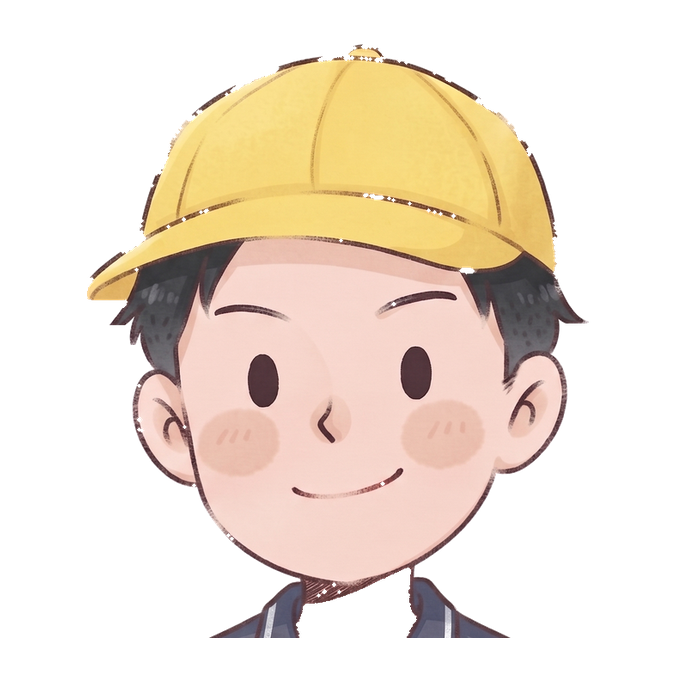
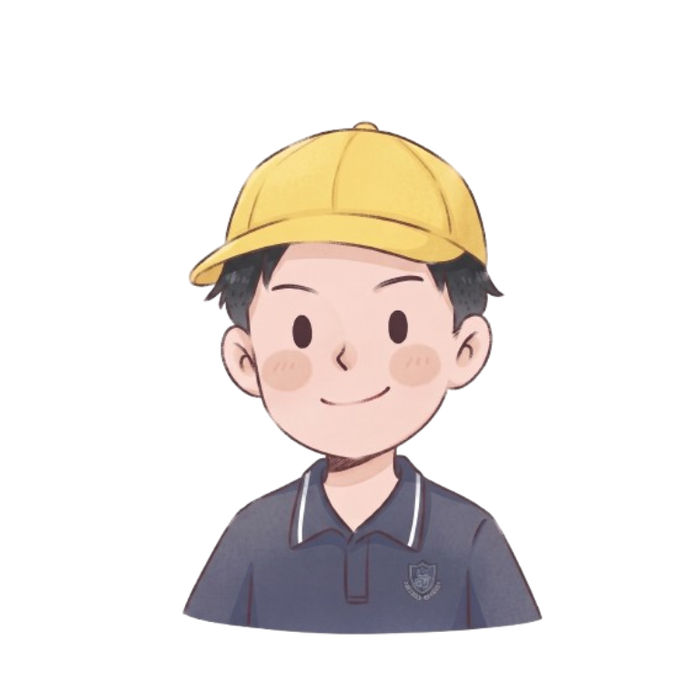
Replace the character head pictures.
The new circle-safe heads are stored as supplied, and the head links use a new cache name.

diff --git a/game/clue-hunt/index.html b/game/clue-hunt/index.html
@@ -173,10 +173,10 @@
 <script>
 (function () {
   var portraits = {
-    evan: { bust: "after-school-club/art/players/evan.png?v=3", head: "after-school-club/art/players/heads/evan.png?v=6" },
-    lily: { bust: "after-school-club/art/players/lily.png?v=3", head: "after-school-club/art/players/heads/lily.png?v=6" },
-    ben: { bust: "after-school-club/art/players/ben.png?v=3", head: "after-school-club/art/players/heads/ben.png?v=6" },
-    hannah: { bust: "after-school-club/art/players/hannah.png?v=3", head: "after-school-club/art/players/heads/hannah.png?v=6" }
+    evan: { bust: "after-school-club/art/players/evan.png?v=3", head: "after-school-club/art/players/heads/evan.png?v=7" },
+    lily: { bust: "after-school-club/art/players/lily.png?v=3", head: "after-school-club/art/players/heads/lily.png?v=7" },
+    ben: { bust: "after-school-club/art/players/ben.png?v=3", head: "after-school-club/art/players/heads/ben.png?v=7" },
+    hannah: { bust: "after-school-club/art/players/hannah.png?v=3", head: "after-school-club/art/players/heads/hannah.png?v=7" }
   };
   var playerId = "";
   try {
@@ -306,7 +306,7 @@
       var portrait = portraits[playerId];
       person = { id: "you", name: "You", head: portrait.head, art: portrait.bust };
     } else if (person && person.head.indexOf("?") < 0) {
-      person = { id: person.id, name: person.name, head: person.head + "?v=6", art: person.art };
+      person = { id: person.id, name: person.name, head: person.head + "?v=7", art: person.art };
     }
     var row = document.createElement("div");
     row.className = "talk-line " + rowClass;

diff --git a/game/after-school-club/club.js b/game/after-school-club/club.js
@@ -3,10 +3,10 @@
 
   var KEY = 'asc-player-v1';
   var PLAYERS = {
-    evan: { name: 'Evan', src: 'art/players/heads/evan.png?v=6' },
-    lily: { name: 'Lily', src: 'art/players/heads/lily.png?v=6' },
-    ben: { name: 'Ben', src: 'art/players/heads/ben.png?v=6' },
-    hannah: { name: 'Hannah', src: 'art/players/heads/hannah.png?v=6' }
+    evan: { name: 'Evan', src: 'art/players/heads/evan.png?v=7' },
+    lily: { name: 'Lily', src: 'art/players/heads/lily.png?v=7' },
+    ben: { name: 'Ben', src: 'art/players/heads/ben.png?v=7' },
+    hannah: { name: 'Hannah', src: 'art/players/heads/hannah.png?v=7' }
   };
   var PLACES = { notice: true, hall: true };
 

diff --git a/game/after-school-club/index.html b/game/after-school-club/index.html
@@ -70,7 +70,7 @@
     <h2 class="sr-only">Campus map</h2>
     <div class="map-tools">
       <button type="button" class="who" id="change-character">
-        <img id="who-img" alt="" width="700" height="700" src="art/players/heads/evan.png?v=6"/>
+        <img id="who-img" alt="" width="700" height="700" src="art/players/heads/evan.png?v=7"/>
         <span><strong id="who-name">You</strong><small>Change character</small></span>
       </button>
     </div>
